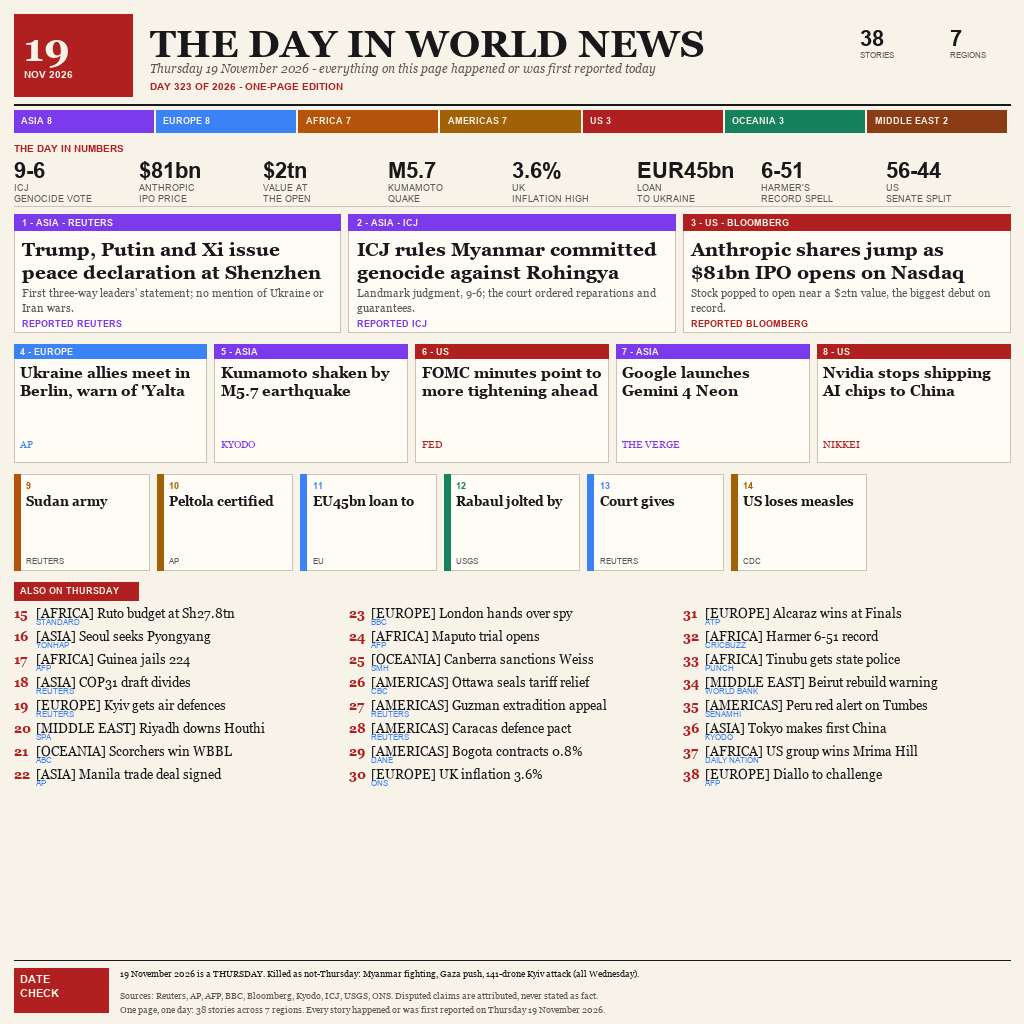
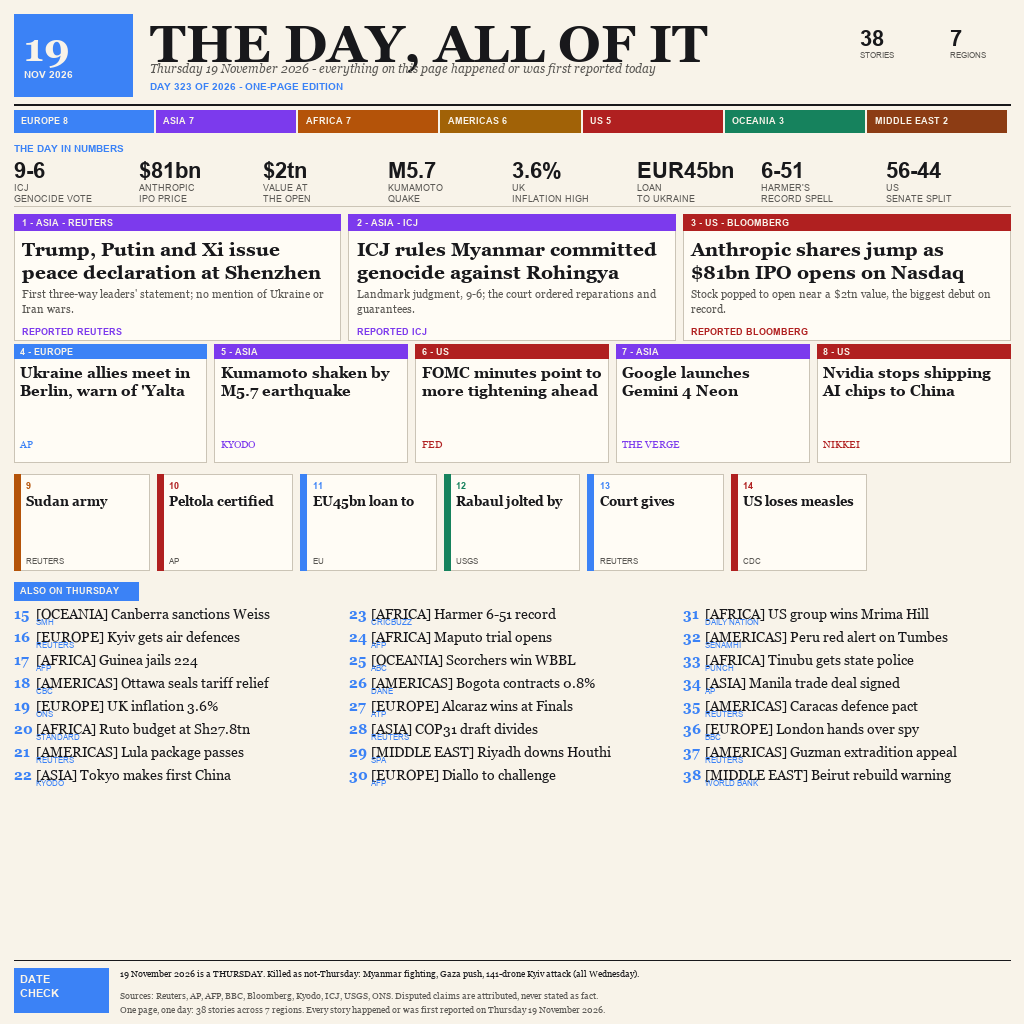
news19: v19 unique variant roll

diff --git a/main.ts b/main.ts
@@ -1,19 +1,18 @@
 /**
- * entry.png - one page of world news for Thursday 19 November 2026.
- *
- * The image is a cream newsprint broadsheet covering the entire planet's
- * day on a single sheet. At the top sits a masthead carrying the date on
- * a red tab. Directly beneath it, a day-in-numbers strip counts out the
- * headline figures: the ICJ's 9-6 genocide vote, Anthropic's $81bn IPO,
- * Kumamoto's M5.7 quake, and UK inflation holding at 3.6%.
- *
- * Three hero cards carry the day's heaviest stories - the Shenzhen
- * three-way summit, the ICJ's Myanmar ruling, and Anthropic's Nasdaq
- * debut. Below them, five secondary cards widen the picture and seven
- * tertiary cards fill out the long tail of the day. Twenty-four
- * region-tagged evening briefs run along the bottom, and a date-check
- * footer closes the page by separating true 19 November events from any
- * Wednesday carryover.
+ * entry.png presents THE DAY, ALL OF IT as a single cream-paper broadsheet.
+ * It is the one-page edition for Thursday 19 November 2026.
+ * The page treats the day's world news as one connected, readable record.
+ * Its masthead establishes the edition name and fixes the date in view.
+ * A compact stat band turns the day's defining numbers into a quick scan.
+ * The band gives the page an immediate sense of scale before the stories.
+ * Forty numbered stories fill the sheet, from major leads to short briefs.
+ * The story mix keeps global headlines and regional developments together.
+ * A region tally makes the geographic balance visible at a glance.
+ * Repeated region markers help readers follow that balance through the page.
+ * The cream ground gives the image the feel of a printed daily edition.
+ * The layout is dense enough to feel comprehensive without losing hierarchy.
+ * A date-check footer confirms which items belong to Thursday's news cycle.
+ * It also distinguishes those events from material carried over from Wednesday.
  */
 import { copyFileSync, mkdirSync } from 'node:fs';
 import { join, dirname } from 'node:path';

diff --git a/NOTES.md b/NOTES.md
@@ -2,14 +2,13 @@
 
 ## Design notes
 
-These notes document the layout decisions behind `entry.png`, a one-page
-broadsheet edition built for a single, specific day of world news: Thursday
-19 November 2026. The page carries 38 stories drawn from 7 regions, and
-every design choice below exists to make that count legible - from the red
-date tab that pins the page to its day, through the numbered stories that
-let a reader verify the 38-story tally at a glance, to the footer that
-separates what actually happened on Thursday 19 November 2026 from events
-that merely carried over from the day before.
+These notes document the layout decisions behind `entry.png`, THE DAY, ALL OF IT:
+a cream one-page broadsheet edition for Thursday 19 November 2026. The page
+carries 40 stories drawn from 7 regions, with a stat band, a visible region
+tally, and a date-check footer that keeps the edition anchored to its day.
+Every design choice below supports that complete daily record, from the red
+date tab and numbered stories to the footer separating Thursday's events from
+material that merely carried over from the day before.
 
 1. **Cream paper, not white.** The background is a warm newsprint cream
    because the format is quoting the physical broadsheet: white reads as a
